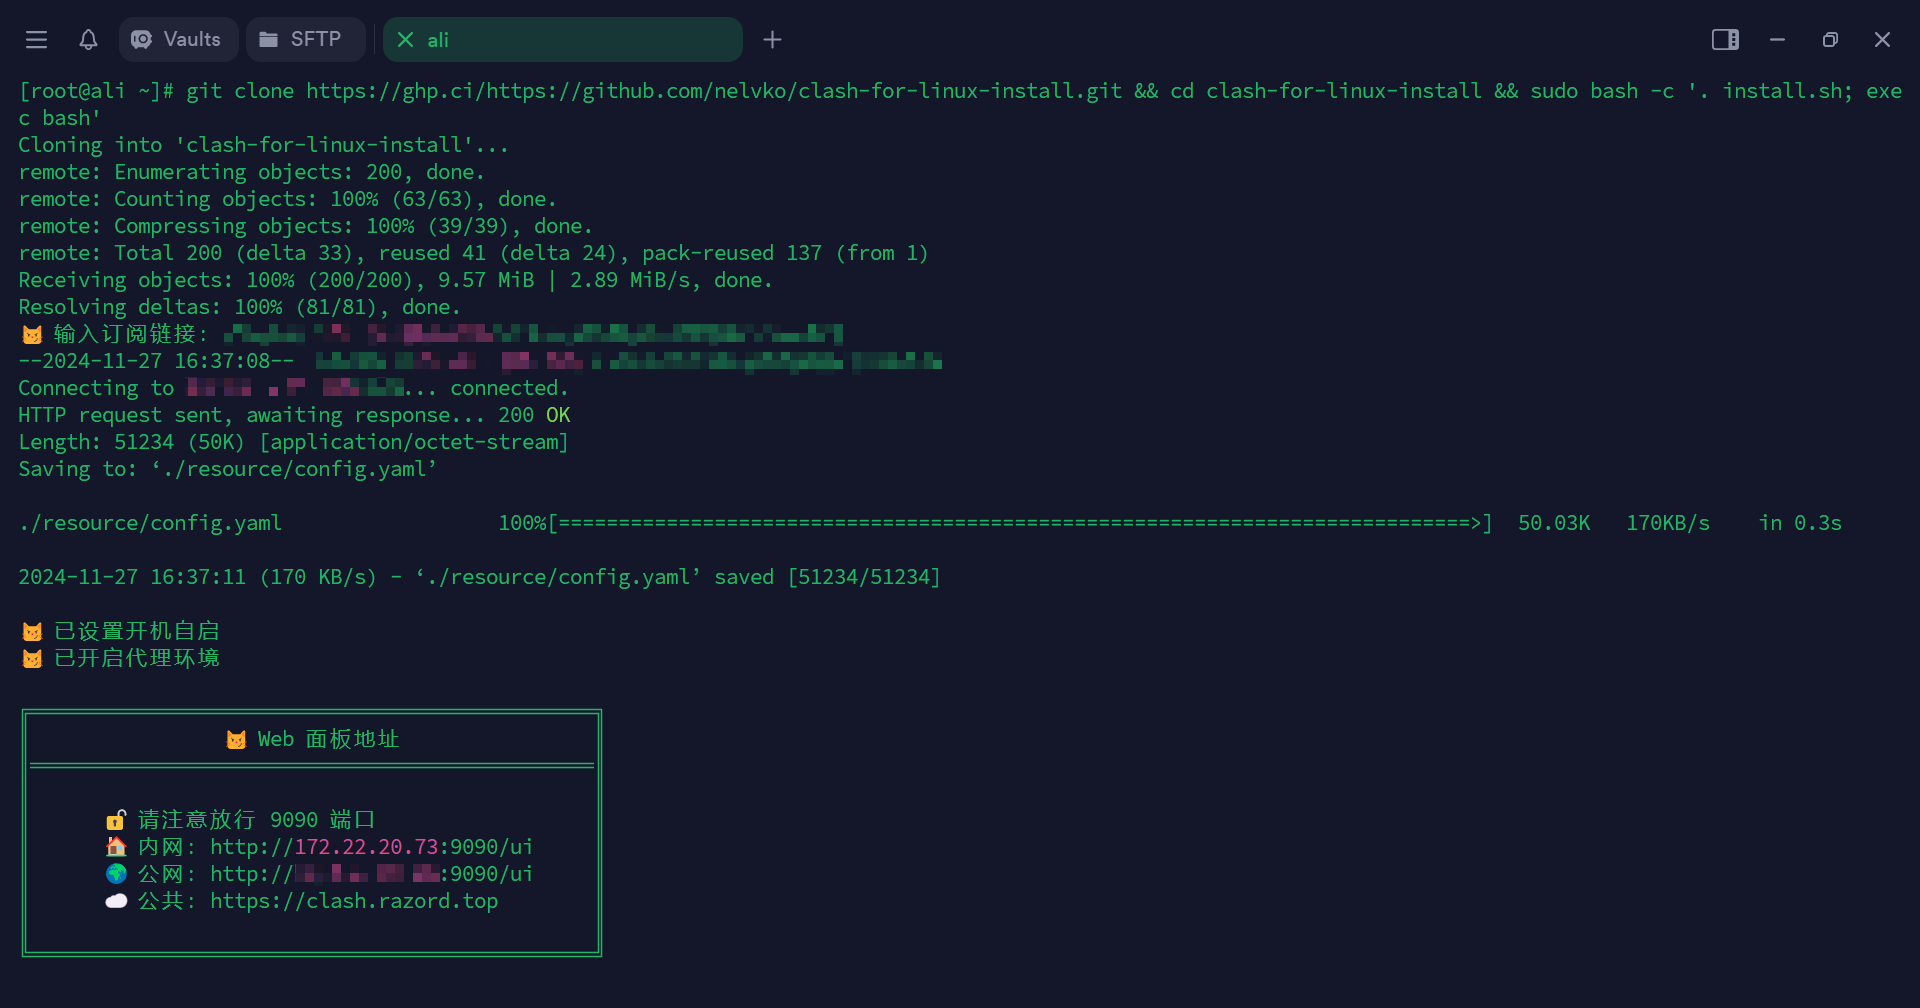
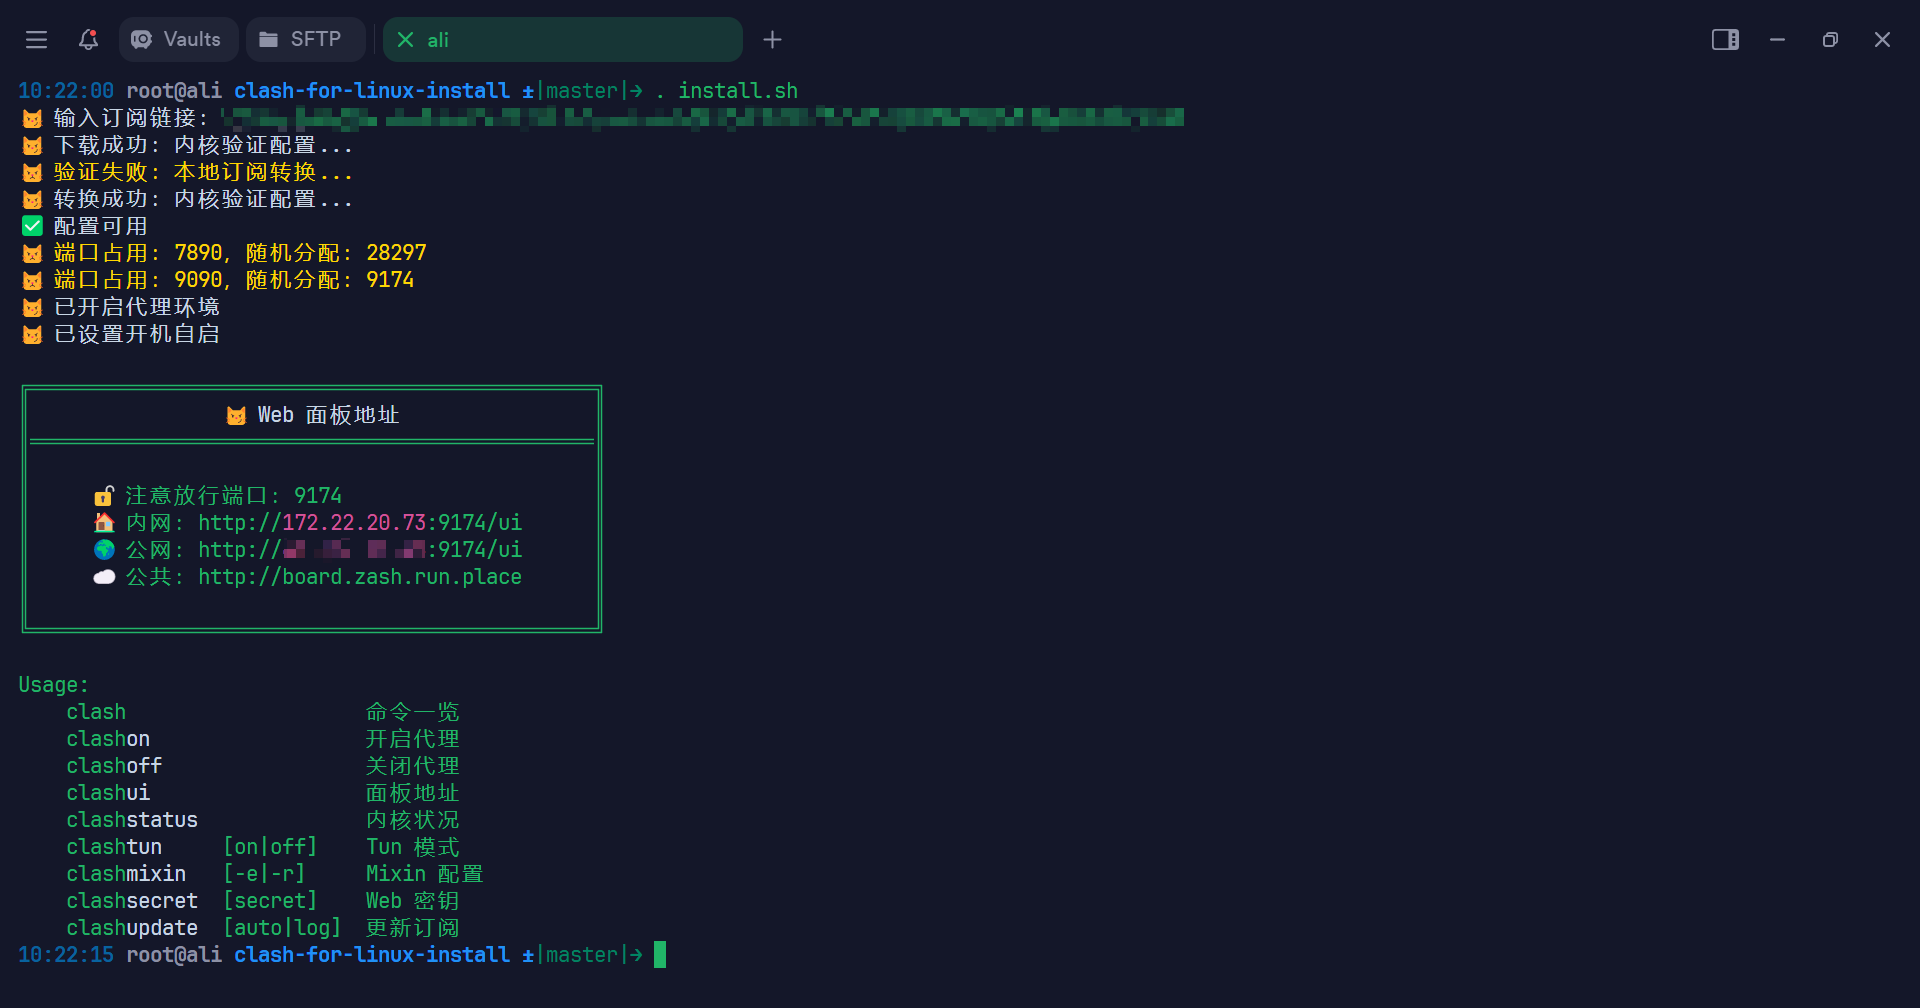
docs: improve docs

diff --git a/README.md b/README.md
@@ -1,8 +1,12 @@
 # Linux 一键安装 Clash
 
-因为有在服务器上使用代理的需求，试过许多开源脚本，总是遇到各种问题。于是自己动手，丰衣足食：对 `Clash` 的安装过程及功能进行了友好封装，使用起来优雅、简单、明确。
+因为有在服务器上使用代理的需求，试过许多开源脚本，总是遇到各种问题。于是自己动手，丰衣足食：对 `Clash` 内核 的安装过程及功能进行了友好封装，使用起来优雅、简单、明确。
 
-![img](resources/preview.png)
+- 默认安装 `mihomo` 内核，[可选](#安装-clash-内核) `clash`。
+- 自动进行本地订阅转换。
+- 多架构支持，适配主流 `Linux` 发行版：`CentOS 7.6`、`Debian 12`、`Ubuntu 24.04.1 LTS`。
+
+![preview](resources/preview.png)
 
 ## 快速开始
 
@@ -10,12 +14,17 @@
 
 - 需要 `root` 或 `sudo` 权限。
 - 具备 `bash` 和 `systemd` 的系统环境。
-- 已适配：`CentOS 7.6`、`Debian 12`、`Ubuntu 24.04.1 LTS`。
 
 ### 一键安装
 
+下述命令适用于 `x86_64` 架构，其他架构需修改 `--branch` 指定的分支。可通过 `uname -m` 查询系统架构，其与分支的对应关系如下：
+
+| 分支 | master | arch-x86 | arch-arm64 | arch-arm32 |
+|:---:| :---:  | :---:    | :---:      | :---:      |
+| 架构 | x86_64 | i386, ...| aarch64    | armv7l, ...|
+
 ```bash
-git clone https://gh-proxy.com/https://github.com/nelvko/clash-for-linux-install.git \
+git clone --branch master --depth 1 https://gh-proxy.com/https://github.com/nelvko/clash-for-linux-install.git \
   && cd clash-for-linux-install \
   && sudo bash -c '. install.sh; exec bash'
 ```
@@ -33,14 +42,16 @@ git clone https://gh-proxy.com/https://github.com/nelvko/clash-for-linux-install
 
 ```bash
 $ clash
-Usage:                                    
-    clashon                开启代理       
-    clashoff               关闭代理       
-    clashui                面板地址       
-    clashtun [on|off]      Tun模式        
-    clashsecret [secret]   查看/设置密钥  
-    clashmixin [-e|-r]     Mixin配置      
-    clashupdate [auto|log] 更新订阅
+Usage:
+    clash                    命令一览
+    clashon                  开启代理
+    clashoff                 关闭代理
+    clashui                  面板地址
+    clashstatus              内核状况
+    clashtun     [on|off]    Tun 模式
+    clashmixin   [-e|-r]     Mixin 配置
+    clashsecret  [secret]    Web 密钥
+    clashupdate  [auto|log]  更新订阅
 ```
 
 ### 开始使用
@@ -65,18 +76,23 @@ $ clashui
 
 ```bash
 $ clashupdate [url]
-😼 配置更新成功，已重启生效
+😼 备份配置：/opt/clash/config.yaml.bak
+😼 下载成功：内核验证配置...
+😾 验证失败：本地订阅转换...
+😼 下载成功：内核验证配置...
+✅ [2025-02-23 22:45:23] 订阅更新成功：https://xxx.com
 
 $ clashupdate auto [url]
 😼 定时任务设置成功
 
 $ clashupdate log
-✅ 2024-12-13 23:38:56 配置更新成功 ...
+✅ [2025-02-23 22:45:23] 订阅更新成功：https://xxx.com
+...
 ```
 
-- `clashupdate` 会记忆上次更新成功的订阅，后续执行无需再指定订阅 `url`。
+- `clashupdate` 会记忆安装/上次更新成功的订阅，后续执行无需再指定订阅url。
 - 可通过 `crontab -e` 修改定时更新频率及订阅链接。
-- 其他更新方式：[pr#24](https://github.com/nelvko/clash-for-linux-install/pull/24#issuecomment-2565054701)
+- 通过配置文件进行更新：[pr#24](https://github.com/nelvko/clash-for-linux-install/pull/24#issuecomment-2565054701)
 
 ### Web 控制台密钥
 
@@ -169,30 +185,34 @@ sudo bash -c '. uninstall.sh; exec bash'
 ### ping 不通外网
 
 - `ping` 命令使用的是第三层中的 `ICMP` 协议，不依赖 `clash` 代理的上层 `TCP` 协议。
-- 执行 `clashtun on` 后可以 `ping` 通，但得到的是 fake ip，原理详见：[clash.wiki](https://clash.wiki/configuration/dns.html#fake-ip)。
+- 执行 `clashtun on` 后~~可以 `ping` 通~~，但得到的是 fake ip，原理详见：[clash.wiki](https://clash.wiki/configuration/dns.html#fake-ip)。
 
 ### 服务启动失败/未启动
 
 - [端口占用](https://github.com/nelvko/clash-for-linux-install/issues/15#issuecomment-2507341281)
 - [系统为 WSL 环境或不具备 systemd](https://github.com/nelvko/clash-for-linux-install/issues/11#issuecomment-2469817217)
 
-### x86、arm架构
+### 安装 `clash` 内核
 
-将 `resource/zip` 目录中的 `clash-linux-amd64-2023.08.17.gz`、`yq_linux_amd64.tar.gz`、`subconverter_linux64.tar.gz` 压缩包替换为对应架构版本后再执行安装脚本。
+将 `resources/zip/` 路径下的 `mihomo` 内核压缩包移出或删除即可，安装时会自动下载对应架构版本的 `clash` 内核。
 
-> 目前仅支持自动下载 clash 的对应架构软件包。
+安装逻辑：
 
-- [yq v4.45.1](https://github.com/mikefarah/yq/releases/tag/v4.45.1)
-- [subconverter v0.9.0](https://github.com/tindy2013/subconverter/releases/tag/v0.9.0)
-- [Clash Premium](https://downloads.clash.wiki/ClashPremium/)
+- `resources/zip/` 路径下无任何内核压缩包时，默认下载安装 `clash` 。
+- 有且仅有一个内核压缩包时，安装该内核。
+- `clash` 和 `mihomo` 压缩包共存时，优先安装 `mihomo` 。
+
+注意：手动替换内核或其他命令版本时，需从官方渠道获取软件包且**勿重命名**。
 
 ## 引用
 
 - [Clash 知识库](https://clash.wiki/)
 - [Clash 全家桶下载](https://www.clash.la/releases/)
-- [subconverter：本地订阅转换](https://github.com/tindy2013/subconverter)
-- [yacd：Web UI](https://github.com/haishanh/yacd)
-- [yq：处理 yaml](https://github.com/mikefarah/yq)
+- [Clash Premium 2023.08.17](https://downloads.clash.wiki/ClashPremium/)
+- [mihomo v1.19.2](https://github.com/MetaCubeX/mihomo)
+- [subconverter v0.9.0：本地订阅转换](https://github.com/tindy2013/subconverter)
+- [yacd v0.3.8：Web UI](https://github.com/haishanh/yacd)
+- [yq v4.45.1：处理 yaml](https://github.com/mikefarah/yq)
 
 ## Todolog
 
@@ -204,7 +224,8 @@ sudo bash -c '. uninstall.sh; exec bash'
 - [x] mixin 配置
 - [x] 适配x86、arm架构
 - [x] 本地订阅转换
-- [ ] 切换 mohomo 内核
+- [x] 切换 mihomo 内核
+- [x] 端口占用时随机分配
 - [ ] [bug / 需求](https://github.com/nelvko/clash-for-linux-install/issues)
 
 ## Thanks
